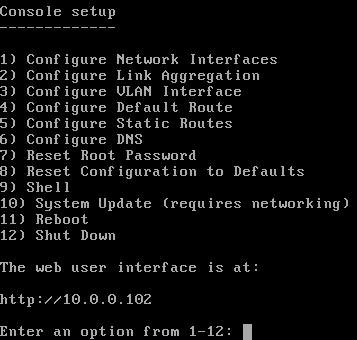
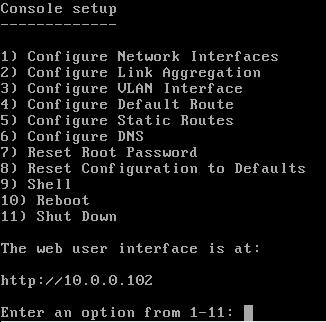
Update console menu
Ticket: #27906

diff --git a/userguide/install.rst b/userguide/install.rst
@@ -265,16 +265,16 @@ The %brand% installer GRUB menu is displayed as is shown in
 
 The installer will start automatically after a few seconds, or an
 option can be chosen by moving the highlight bar to it with the up and
-down arrow keys and pressing :kbd:`Enter`. After booting, the console
-setup menu is displayed as shown in
-:numref:`Figure %s <console_setup_fig>`.
+down arrow keys and pressing :kbd:`Enter`. After booting, the
+installer menu is displayed as shown in
+:numref:`Figure %s <installer_menu_fig>`.
 
 
-.. _console_setup_fig:
+.. _installer_menu_fig:
 
 .. figure:: images/install2c.png
 
-   Console Setup
+   Installer Menu
 
 
 Press :kbd:`Enter` to select the default option,
@@ -298,15 +298,15 @@ system.
    Selecting the Install Drive
 
 
-Use the arrow keys to highlight the destination USB drive, SSD,
-DOM (Disk on Module), or virtual disk. Press the :kbd:`spacebar` to select
+Use the arrow keys to highlight the destination USB drive, SSD, DOM
+(Disk on Module), or virtual disk. Press the :kbd:`spacebar` to select
 it. To mirror the boot device, move to the second device and press
-:kbd:`spacebar` to select it also. After making these selections, press
-:kbd:`Enter`. The warning shown in
+:kbd:`spacebar` to select it also. After making these selections,
+press :kbd:`Enter`. The warning shown in
 :numref:`Figure %s <install_warning_fig>`
 is displayed, a reminder not to install the operating system on a
 drive that is meant for storage. Press :kbd:`Enter` to continue on to
-the screen shown in 
+the screen shown in
 :numref:`Figure %s <set_root_pass_fig>`.
 
 

diff --git a/userguide/storage.rst b/userguide/storage.rst
@@ -287,7 +287,7 @@ such volumes before using them in production.
    number of disks increases. Older processors without the AES-NI
    instructions see significant performance impact with even a single
    encrypted disk. This `forum post
-   <https://forums.freenas.org/index.php?threads/encryption-performance-benchmarks.12157/>`__ 
+   <https://forums.freenas.org/index.php?threads/encryption-performance-benchmarks.12157/>`__
    compares the performance of various processors.
 #endif freenas
 
@@ -1277,8 +1277,8 @@ regular creation of snapshots, instead use
 
 **Promote Dataset:** only applies to clones. When a clone is promoted,
 the origin filesystem becomes a clone of the clone making it possible
-to destroy the filesystem that the clone was created from. Otherwise, a
-clone can not be destroyed while its origin filesystem exists.
+to destroy the filesystem that the clone was created from. Otherwise,
+a clone cannot be destroyed while the origin filesystem exists.
 
 **Destroy Dataset:** clicking the :guilabel:`Destroy Dataset` button
 causes the browser window to turn red to indicate that this is a

diff --git a/userguide/snippets/console_menu.rst b/userguide/snippets/console_menu.rst
@@ -68,16 +68,9 @@ can be used to re-import volumes.
 **9) Shell** starts a shell for running FreeBSD commands. To leave
 the shell, type :command:`exit`.
 
-**10) System Update** checks for system updates. If any new updates
-are available, they are automatically downloaded and applied. This
-is a simplified version of the :ref:`Update` option available in the
-web interface. Updates are applied immediately for the currently
-selected train and access to the GUI is not required. For more
-advanced update options like switching trains, use :ref:`Update`.
+**10) Reboot** reboots the system.
 
-**11) Reboot** reboots the system.
-
-**12) Shut Down** shuts down the system.
+**11) Shut Down** shuts down the system.
 
 .. note:: The numbering and quantity of options on this menu can
    change due to software updates, service agreements, or other

diff --git a/userguide/tn_initial.rst b/userguide/tn_initial.rst
@@ -204,7 +204,7 @@ server from all live interfaces. If it successfully receives an IP
 address, the address is displayed so it can be used to access the
 graphical user interface. In the example seen in
 :numref:`Figure %s <console_setup_menu_fig>`,
-the %brand% system is accessible at *http://10.0.0.142*.
+the %brand% system is accessible at *http://10.0.0.102*.
 
 Some %brand% systems are set up without a monitor, making it
 challenging to determine which IP address has been assigned. On

diff --git a/userguide/cli.rst b/userguide/cli.rst
@@ -73,7 +73,7 @@ To start xjperf on Mac OS X, Linux, or BSD, unzip the downloaded file,
 :command:`chmod u+x jperf.sh`, and run :command:`./jperf.sh`.
 
 Once the client is ready, you need to start the Iperf server on
-%brand%. 
+%brand%.
 
 .. note:: Beginning with %brand% version 11.1, both `iperf2
    <https://sourceforge.net/projects/iperf2/>`_ and `iperf3
